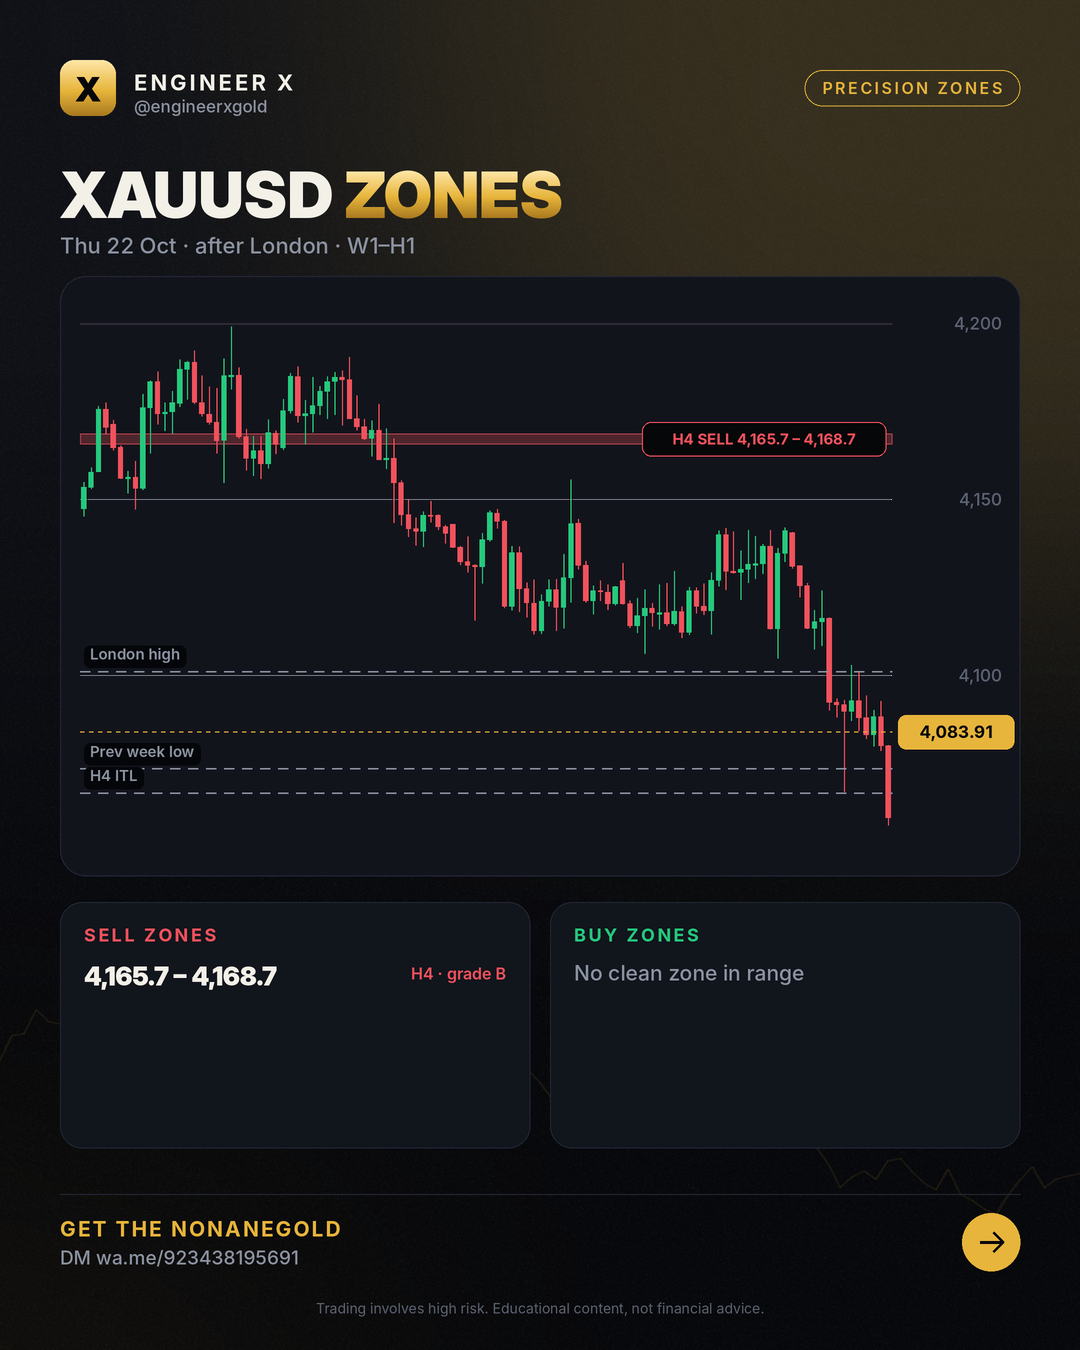
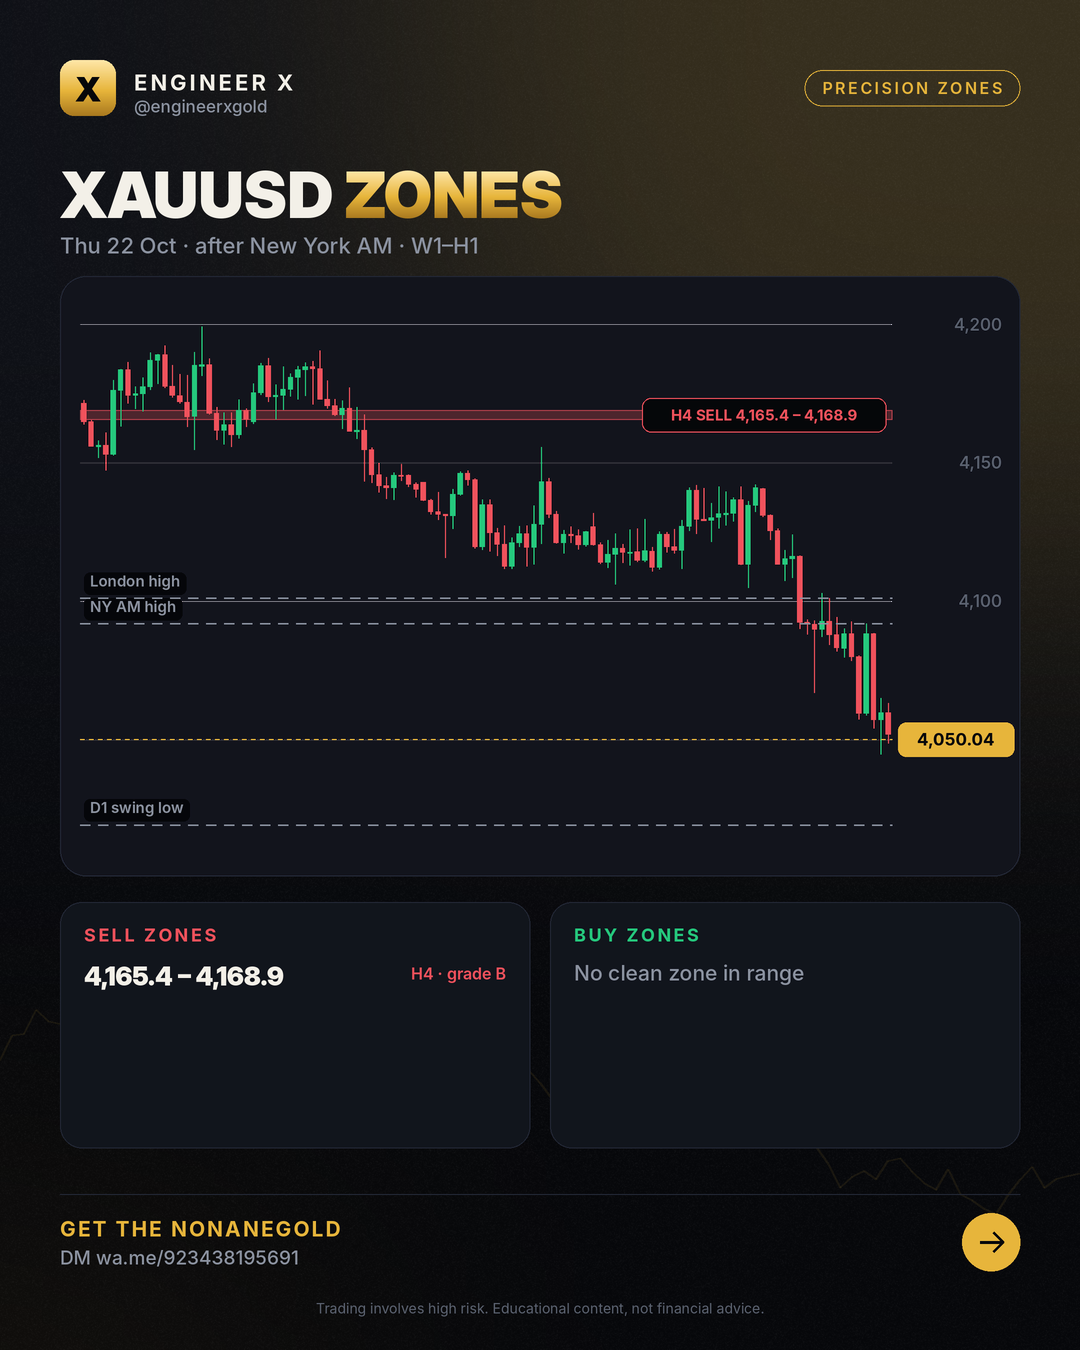
zones 2026-10-22 Thu 22 Oct · after New York AM · W1–H1

diff --git a/zones/2026-10-22/index.html b/zones/2026-10-22/index.html
@@ -4,7 +4,7 @@
 <meta charset="utf-8">
 <meta name="viewport" content="width=device-width,initial-scale=1">
 <title>Xauusd Analysis – 22 Oct 2026 (W1–H1)</title>
-<meta name="description" content="XAUUSD buy and sell zones for 2026-10-22: tested W1, D1, H4 and H1 zones with invalidation levels, updated after the Asian, London and New York sessions. Price 4,083.91.">
+<meta name="description" content="XAUUSD buy and sell zones for 2026-10-22: tested W1, D1, H4 and H1 zones with invalidation levels, updated after the Asian, London and New York sessions. Price 4,050.04.">
 <meta name="robots" content="index,follow,max-image-preview:large,max-snippet:-1,max-video-preview:-1">
 <meta name="author" content="Engr. M Ahmad Mehmood">
 <link rel="canonical" href="https://engineerxgold.github.io/zones/2026-10-22/">
@@ -12,7 +12,7 @@
 <link rel="apple-touch-icon" href="../../img/logo.png">
 <meta property="og:site_name" content="Engineer X">
 <meta property="og:title" content="Xauusd Analysis – 22 Oct 2026 (W1–H1)">
-<meta property="og:description" content="XAUUSD buy and sell zones for 2026-10-22: tested W1, D1, H4 and H1 zones with invalidation levels, updated after the Asian, London and New York sessions. Price 4,083.91.">
+<meta property="og:description" content="XAUUSD buy and sell zones for 2026-10-22: tested W1, D1, H4 and H1 zones with invalidation levels, updated after the Asian, London and New York sessions. Price 4,050.04.">
 <meta property="og:type" content="article">
 <meta property="og:url" content="https://engineerxgold.github.io/zones/2026-10-22/">
 <meta property="og:image" content="https://engineerxgold.github.io/zones/img/2026-10-22.png">
@@ -22,7 +22,7 @@
 <meta property="og:locale" content="en_US">
 <meta name="twitter:card" content="summary_large_image">
 <meta name="twitter:title" content="Xauusd Analysis – 22 Oct 2026 (W1–H1)">
-<meta name="twitter:description" content="XAUUSD buy and sell zones for 2026-10-22: tested W1, D1, H4 and H1 zones with invalidation levels, updated after the Asian, London and New York sessions. Price 4,083.91.">
+<meta name="twitter:description" content="XAUUSD buy and sell zones for 2026-10-22: tested W1, D1, H4 and H1 zones with invalidation levels, updated after the Asian, London and New York sessions. Price 4,050.04.">
 <meta name="twitter:image" content="https://engineerxgold.github.io/zones/img/2026-10-22.png">
 <meta name="twitter:image:alt" content="Xauusd Analysis – 22 Oct 2026 (W1–H1)">
 
@@ -32,7 +32,7 @@
 <link rel="preconnect" href="https://fonts.googleapis.com">
 <link rel="preconnect" href="https://fonts.gstatic.com" crossorigin>
 <link href="https://fonts.googleapis.com/css2?family=Inter:wght@400;500;600;800;900&display=swap" rel="stylesheet">
-<script type="application/ld+json">{"@context": "https://schema.org", "@type": "Organization", "@id": "https://engineerxgold.github.io/#organization", "name": "Engineer X", "url": "https://engineerxgold.github.io/", "logo": {"@type": "ImageObject", "url": "https://engineerxgold.github.io/img/logo.png", "width": 512, "height": 512}, "sameAs": ["https://t.me/engineerxgold"]}</script><script type="application/ld+json">{"@context": "https://schema.org", "@type": "Article", "headline": "Xauusd Analysis – 22 Oct 2026 (W1–H1)", "datePublished": "2026-10-22T08:00:00+05:00", "dateModified": "2026-10-22T17:56:43+05:00", "author": {"@type": "Person", "@id": "https://engineerxgold.github.io/about/#author", "name": "Engr. M Ahmad Mehmood", "url": "https://engineerxgold.github.io/about/", "jobTitle": "MQL5 Expert Advisor developer and gold market analyst", "worksFor": {"@id": "https://engineerxgold.github.io/#organization"}}, "publisher": {"@id": "https://engineerxgold.github.io/#organization"}, "image": "https://engineerxgold.github.io/zones/img/2026-10-22.png", "mainEntityOfPage": "https://engineerxgold.github.io/zones/2026-10-22/"}</script>
+<script type="application/ld+json">{"@context": "https://schema.org", "@type": "Organization", "@id": "https://engineerxgold.github.io/#organization", "name": "Engineer X", "url": "https://engineerxgold.github.io/", "logo": {"@type": "ImageObject", "url": "https://engineerxgold.github.io/img/logo.png", "width": 512, "height": 512}, "sameAs": ["https://t.me/engineerxgold"]}</script><script type="application/ld+json">{"@context": "https://schema.org", "@type": "Article", "headline": "Xauusd Analysis – 22 Oct 2026 (W1–H1)", "datePublished": "2026-10-22T08:00:00+05:00", "dateModified": "2026-10-22T21:03:52+05:00", "author": {"@type": "Person", "@id": "https://engineerxgold.github.io/about/#author", "name": "Engr. M Ahmad Mehmood", "url": "https://engineerxgold.github.io/about/", "jobTitle": "MQL5 Expert Advisor developer and gold market analyst", "worksFor": {"@id": "https://engineerxgold.github.io/#organization"}}, "publisher": {"@id": "https://engineerxgold.github.io/#organization"}, "image": "https://engineerxgold.github.io/zones/img/2026-10-22.png", "mainEntityOfPage": "https://engineerxgold.github.io/zones/2026-10-22/"}</script>
 
 <style>
 :root{--gold:#E7B53B;--gold-hi:#FFE7A8;--bg:#07080B;--bg2:#0E1016;--panel:#12151D;--line:#232836;--green:#25C97D;--red:#F0525C;--text:#F3F0E8;--muted:#8C93A1}
@@ -101,7 +101,7 @@ footer .fl a{color:var(--muted);margin-right:16px}
 <div class="wrap">
 <nav><a class="logo" href="../../"><b>X</b>Engineer X</a>
 <div class="links"><a href="../../zones/">Daily Zones</a><a href="../../blog/">Learn</a><a href="../../ea/">Gold EA</a><a href="../../about/">About</a><a class="cta" href="https://wa.me/923438195691">Get the EA</a></div></nav>
-<article><p class="crumbs"><a href="../../">Home</a> › <a href="../">Zones</a> › 2026-10-22</p><h1>Xauusd Analysis – 22 Oct 2026 (W1–H1)</h1><p class="byline">Thu 22 Oct · after London · W1–H1 · by Engr. M Ahmad Mehmood</p><img src="../img/2026-10-22.png" alt="XAUUSD zone map 2026-10-22" width="1080" height="1350" loading="eager"><h2>Zones</h2><div style="overflow-x:auto"><table style="width:100%;border-collapse:collapse;font-size:15px"><tr><th align=left>Zone</th><th align=left>Price band</th><th>Grade</th><th align=left>Invalid</th><th align=left>Why</th></tr><tr><td>H4 sell</td><td><b>4,165.69 – 4,168.70</b></td><td>B</td><td>above 4,182.24</td><td>OTE 0.705 of the H4 leg 4190.42 → 4111.68 (S35; 0.62–0.79 = 4160.50–4173.88)</td></tr></table></div><h2>How to read this map</h2><p>Bands are where price is expected to react; they are not entries. Trading beyond the invalidation price ends the zone; each zone counts once (first touch). Highs and lows listed as liquidity are targets: on 10 years of gold price ran through them more often than through random levels.</p><div class="ctabox"><h3>🤖 Trade the zones with the NonaneGold</h3><p>Free signals group access + setup help Message us and we will help you set it up.</p><div class="btns"><a class="btn gold" href="https://wa.me/923438195691">Get the EA on Telegram</a><a class="btn ghost" href="../../ea/">About the EA</a></div></div></article>
+<article><p class="crumbs"><a href="../../">Home</a> › <a href="../">Zones</a> › 2026-10-22</p><h1>Xauusd Analysis – 22 Oct 2026 (W1–H1)</h1><p class="byline">Thu 22 Oct · after New York AM · W1–H1 · by Engr. M Ahmad Mehmood</p><img src="../img/2026-10-22.png" alt="XAUUSD zone map 2026-10-22" width="1080" height="1350" loading="eager"><h2>Zones</h2><div style="overflow-x:auto"><table style="width:100%;border-collapse:collapse;font-size:15px"><tr><th align=left>Zone</th><th align=left>Price band</th><th>Grade</th><th align=left>Invalid</th><th align=left>Why</th></tr><tr><td>H4 sell</td><td><b>4,165.44 – 4,168.95</b></td><td>B</td><td>above 4,184.75</td><td>OTE 0.705 of the H4 leg 4190.42 → 4111.68 (S35; 0.62–0.79 = 4160.50–4173.88)</td></tr></table></div><h2>How to read this map</h2><p>Bands are where price is expected to react; they are not entries. Trading beyond the invalidation price ends the zone; each zone counts once (first touch). Highs and lows listed as liquidity are targets: on 10 years of gold price ran through them more often than through random levels.</p><div class="ctabox"><h3>🤖 Trade the zones with the NonaneGold</h3><p>Free signals group access + setup help Message us and we will help you set it up.</p><div class="btns"><a class="btn gold" href="https://wa.me/923438195691">Get the EA on Telegram</a><a class="btn ghost" href="../../ea/">About the EA</a></div></div></article>
 <footer>
 <div class="warn"><b>Risk warning:</b> Trading gold, forex and CFDs carries a high risk of losing money and is not suitable for everyone. Past results do not guarantee future results. Everything on this site is educational and not financial advice. We are an introducing partner of our broker and may earn a commission on accounts opened through our link.</div>
 <p class="fl" style="margin-top:18px"><a href="../../about/">About &amp; methodology</a><a href="../../privacy.html">Privacy</a><a href="../../terms.html">Terms &amp; risk disclosure</a><a href="../../feed.xml">RSS</a><a href="https://t.me/engineerxgold">Telegram</a></p>

diff --git a/zones/index.html b/zones/index.html
@@ -4,7 +4,7 @@
 <meta charset="utf-8">
 <meta name="viewport" content="width=device-width,initial-scale=1">
 <title>XAUUSD Zones Today – Buy &amp; Sell Zones (H4, H1) | Engineer X</title>
-<meta name="description" content="XAUUSD buy and sell zones for 2026-10-22: tested W1, D1, H4 and H1 zones with invalidation levels, updated after the Asian, London and New York sessions. Price 4,083.91.">
+<meta name="description" content="XAUUSD buy and sell zones for 2026-10-22: tested W1, D1, H4 and H1 zones with invalidation levels, updated after the Asian, London and New York sessions. Price 4,050.04.">
 <meta name="robots" content="index,follow,max-image-preview:large,max-snippet:-1,max-video-preview:-1">
 <meta name="author" content="Engr. M Ahmad Mehmood">
 <link rel="canonical" href="https://engineerxgold.github.io/zones/">
@@ -12,7 +12,7 @@
 <link rel="apple-touch-icon" href="../img/logo.png">
 <meta property="og:site_name" content="Engineer X">
 <meta property="og:title" content="XAUUSD Zones Today – Buy &amp; Sell Zones (H4, H1) | Engineer X">
-<meta property="og:description" content="XAUUSD buy and sell zones for 2026-10-22: tested W1, D1, H4 and H1 zones with invalidation levels, updated after the Asian, London and New York sessions. Price 4,083.91.">
+<meta property="og:description" content="XAUUSD buy and sell zones for 2026-10-22: tested W1, D1, H4 and H1 zones with invalidation levels, updated after the Asian, London and New York sessions. Price 4,050.04.">
 <meta property="og:type" content="website">
 <meta property="og:url" content="https://engineerxgold.github.io/zones/">
 <meta property="og:image" content="https://engineerxgold.github.io/zones/img/2026-10-22.png">
@@ -22,7 +22,7 @@
 <meta property="og:locale" content="en_US">
 <meta name="twitter:card" content="summary_large_image">
 <meta name="twitter:title" content="XAUUSD Zones Today – Buy &amp; Sell Zones (H4, H1) | Engineer X">
-<meta name="twitter:description" content="XAUUSD buy and sell zones for 2026-10-22: tested W1, D1, H4 and H1 zones with invalidation levels, updated after the Asian, London and New York sessions. Price 4,083.91.">
+<meta name="twitter:description" content="XAUUSD buy and sell zones for 2026-10-22: tested W1, D1, H4 and H1 zones with invalidation levels, updated after the Asian, London and New York sessions. Price 4,050.04.">
 <meta name="twitter:image" content="https://engineerxgold.github.io/zones/img/2026-10-22.png">
 <meta name="twitter:image:alt" content="XAUUSD Zones Today – Buy &amp; Sell Zones (H4, H1) | Engineer X">
 
@@ -101,7 +101,7 @@ footer .fl a{color:var(--muted);margin-right:16px}
 <div class="wrap">
 <nav><a class="logo" href="../"><b>X</b>Engineer X</a>
 <div class="links"><a href="../zones/">Daily Zones</a><a href="../blog/">Learn</a><a href="../ea/">Gold EA</a><a href="../about/">About</a><a class="cta" href="https://wa.me/923438195691">Get the EA</a></div></nav>
-<section class="hero"><span class="chip">Updated Thu 22 Oct · after London · W1–H1</span><h1>XAUUSD <span class="gold">precision zones</span></h1><p>XAUUSD buy and sell zones for 2026-10-22: tested W1, D1, H4 and H1 zones with invalidation levels, updated after the Asian, London and New York sessions. Price 4,083.91.</p></section><img src="img/2026-10-22.png" alt="Latest XAUUSD zone map" width="1080" height="1350"><section><h2>Current zones</h2><div style="overflow-x:auto"><table style="width:100%;border-collapse:collapse;font-size:15px"><tr><th align=left>Zone</th><th align=left>Price band</th><th>Grade</th><th align=left>Invalid</th><th align=left>Why</th></tr><tr><td>H4 sell</td><td><b>4,165.69 – 4,168.70</b></td><td>B</td><td>above 4,182.24</td><td>OTE 0.705 of the H4 leg 4190.42 → 4111.68 (S35; 0.62–0.79 = 4160.50–4173.88)</td></tr></table></div></section><section><h2>Honest scorecard</h2><div class="grid"><div class="card"><div class="n">143</div><p>zones published (30 days)</p></div><div class="card"><div class="n">76</div><p>held (moved 1 hourly ATR away)</p></div><div class="card"><div class="n">6</div><p>broke (traded beyond the invalidation)</p></div><div class="card"><div class="n">93%</div><p>hold rate of decided zones</p></div></div></section><div class="ctabox"><h3>🤖 Trade the zones with the NonaneGold</h3><p>Free signals group access + setup help Message us and we will help you set it up.</p><div class="btns"><a class="btn gold" href="https://wa.me/923438195691">Get the EA on Telegram</a><a class="btn ghost" href="../ea/">About the EA</a></div></div><section><h2>Archive</h2><div class="grid posts"><a class="card" href="2026-10-22/"><span class="date">2026-10-22</span><h3>XAUUSD zones 2026-10-22</h3></a><a class="card" href="2026-10-21/"><span class="date">2026-10-21</span><h3>XAUUSD zones 2026-10-21</h3></a><a class="card" href="2026-10-20/"><span class="date">2026-10-20</span><h3>XAUUSD zones 2026-10-20</h3></a><a class="card" href="2026-10-19/"><span class="date">2026-10-19</span><h3>XAUUSD zones 2026-10-19</h3></a><a class="card" href="2026-10-16/"><span class="date">2026-10-16</span><h3>XAUUSD zones 2026-10-16</h3></a><a class="card" href="2026-10-15/"><span class="date">2026-10-15</span><h3>XAUUSD zones 2026-10-15</h3></a><a class="card" href="2026-10-14/"><span class="date">2026-10-14</span><h3>XAUUSD zones 2026-10-14</h3></a><a class="card" href="2026-10-13/"><span class="date">2026-10-13</span><h3>XAUUSD zones 2026-10-13</h3></a></div></section>
+<section class="hero"><span class="chip">Updated Thu 22 Oct · after New York AM · W1–H1</span><h1>XAUUSD <span class="gold">precision zones</span></h1><p>XAUUSD buy and sell zones for 2026-10-22: tested W1, D1, H4 and H1 zones with invalidation levels, updated after the Asian, London and New York sessions. Price 4,050.04.</p></section><img src="img/2026-10-22.png" alt="Latest XAUUSD zone map" width="1080" height="1350"><section><h2>Current zones</h2><div style="overflow-x:auto"><table style="width:100%;border-collapse:collapse;font-size:15px"><tr><th align=left>Zone</th><th align=left>Price band</th><th>Grade</th><th align=left>Invalid</th><th align=left>Why</th></tr><tr><td>H4 sell</td><td><b>4,165.44 – 4,168.95</b></td><td>B</td><td>above 4,184.75</td><td>OTE 0.705 of the H4 leg 4190.42 → 4111.68 (S35; 0.62–0.79 = 4160.50–4173.88)</td></tr></table></div></section><section><h2>Honest scorecard</h2><div class="grid"><div class="card"><div class="n">143</div><p>zones published (30 days)</p></div><div class="card"><div class="n">83</div><p>held (moved 1 hourly ATR away)</p></div><div class="card"><div class="n">6</div><p>broke (traded beyond the invalidation)</p></div><div class="card"><div class="n">93%</div><p>hold rate of decided zones</p></div></div></section><div class="ctabox"><h3>🤖 Trade the zones with the NonaneGold</h3><p>Free signals group access + setup help Message us and we will help you set it up.</p><div class="btns"><a class="btn gold" href="https://wa.me/923438195691">Get the EA on Telegram</a><a class="btn ghost" href="../ea/">About the EA</a></div></div><section><h2>Archive</h2><div class="grid posts"><a class="card" href="2026-10-22/"><span class="date">2026-10-22</span><h3>XAUUSD zones 2026-10-22</h3></a><a class="card" href="2026-10-21/"><span class="date">2026-10-21</span><h3>XAUUSD zones 2026-10-21</h3></a><a class="card" href="2026-10-20/"><span class="date">2026-10-20</span><h3>XAUUSD zones 2026-10-20</h3></a><a class="card" href="2026-10-19/"><span class="date">2026-10-19</span><h3>XAUUSD zones 2026-10-19</h3></a><a class="card" href="2026-10-16/"><span class="date">2026-10-16</span><h3>XAUUSD zones 2026-10-16</h3></a><a class="card" href="2026-10-15/"><span class="date">2026-10-15</span><h3>XAUUSD zones 2026-10-15</h3></a><a class="card" href="2026-10-14/"><span class="date">2026-10-14</span><h3>XAUUSD zones 2026-10-14</h3></a><a class="card" href="2026-10-13/"><span class="date">2026-10-13</span><h3>XAUUSD zones 2026-10-13</h3></a></div></section>
 <footer>
 <div class="warn"><b>Risk warning:</b> Trading gold, forex and CFDs carries a high risk of losing money and is not suitable for everyone. Past results do not guarantee future results. Everything on this site is educational and not financial advice. We are an introducing partner of our broker and may earn a commission on accounts opened through our link.</div>
 <p class="fl" style="margin-top:18px"><a href="../about/">About &amp; methodology</a><a href="../privacy.html">Privacy</a><a href="../terms.html">Terms &amp; risk disclosure</a><a href="../feed.xml">RSS</a><a href="https://t.me/engineerxgold">Telegram</a></p>

diff --git a/index.html b/index.html
@@ -101,7 +101,7 @@ footer .fl a{color:var(--muted);margin-right:16px}
 <div class="wrap">
 <nav><a class="logo" href="./"><b>X</b>Engineer X</a>
 <div class="links"><a href="./zones/">Daily Zones</a><a href="./blog/">Learn</a><a href="./ea/">Gold EA</a><a href="./about/">About</a><a class="cta" href="https://wa.me/923438195691">Get the EA</a></div></nav>
-<section class="hero"><span class="chip">XAUUSD · W1–H1 · every session</span><h1>Gold <span class="gold">precision zones</span>, updated after every session</h1><p>Tested buy and sell zones with clear invalidation, a scorecard of every result, and the NonaneGold for traders who want it automated.</p><div class="btns"><a class="btn gold" href="zones/">See today's zones</a><a class="btn ghost" href="https://wa.me/923438195691">Get the EA</a></div></section><section><h2>Latest map Thu 22 Oct · after London · W1–H1</h2><img src="zones/img/2026-10-22.png" alt="Latest XAUUSD zones" width="1080" height="1350"></section><div class="ctabox"><h3>🤖 Trade the zones with the NonaneGold</h3><p>Free signals group access + setup help Message us and we will help you set it up.</p><div class="btns"><a class="btn gold" href="https://wa.me/923438195691">Get the EA on Telegram</a><a class="btn ghost" href="ea/">About the EA</a></div></div><section><h2>Learn</h2><div class="grid posts"><a class="card" href="blog/gold-forecast-critical-h4-bearish-zones-liquidity/"><span class="date">2026-10-21</span><h3>Gold Forecast: Critical H4 Bearish Zones &amp; Liquidity</h3></a><a class="card" href="blog/gold-supply-and-demand-zones-h4-w1-map-analysis/"><span class="date">2026-10-20</span><h3>Gold Supply and Demand Zones: H4 &amp; W1 Map Analysis</h3></a><a class="card" href="blog/gold-trading-reading-h4-trend-liquidity-zones/"><span class="date">2026-10-19</span><h3>Gold Trading: Reading H4 Trend &amp; Liquidity Zones</h3></a><a class="card" href="blog/gold-support-resistance-live-technical-map-zones/"><span class="date">2026-10-18</span><h3>Gold Support Resistance: Live Technical Map &amp; Zones</h3></a><a class="card" href="blog/gold-supply-and-demand-zones-live-trading-map-guide/"><span class="date">2026-10-17</span><h3>Gold Supply and Demand Zones: Live Trading Map &amp; Guide</h3></a><a class="card" href="blog/gold-trading-h4-trend-and-live-market-zones-map/"><span class="date">2026-10-16</span><h3>Gold Trading: H4 Trend and Live Market Zones Map</h3></a></div></section><section><h2>FAQ</h2><details><summary>What is a precision zone?</summary><p>A point of interest from a trading book (OTE 0.705, balanced price range, weekly close level, daily order block) that held better than random levels on 10 years of gold. Each zone has an invalidation price.</p></details><details><summary>How often are the zones updated?</summary><p>A daily plan at the Asian open, then after the Asian, London and New York sessions.</p></details><details><summary>Are these trade signals?</summary><p>No. Zones are areas to watch. Wait for your own confirmation and manage risk.</p></details><details><summary>How do I get the Gold EA?</summary><p>Message us on Telegram or WhatsApp; we answer and help with the setup.</p></details></section>
+<section class="hero"><span class="chip">XAUUSD · W1–H1 · every session</span><h1>Gold <span class="gold">precision zones</span>, updated after every session</h1><p>Tested buy and sell zones with clear invalidation, a scorecard of every result, and the NonaneGold for traders who want it automated.</p><div class="btns"><a class="btn gold" href="zones/">See today's zones</a><a class="btn ghost" href="https://wa.me/923438195691">Get the EA</a></div></section><section><h2>Latest map Thu 22 Oct · after New York AM · W1–H1</h2><img src="zones/img/2026-10-22.png" alt="Latest XAUUSD zones" width="1080" height="1350"></section><div class="ctabox"><h3>🤖 Trade the zones with the NonaneGold</h3><p>Free signals group access + setup help Message us and we will help you set it up.</p><div class="btns"><a class="btn gold" href="https://wa.me/923438195691">Get the EA on Telegram</a><a class="btn ghost" href="ea/">About the EA</a></div></div><section><h2>Learn</h2><div class="grid posts"><a class="card" href="blog/gold-forecast-critical-h4-bearish-zones-liquidity/"><span class="date">2026-10-21</span><h3>Gold Forecast: Critical H4 Bearish Zones &amp; Liquidity</h3></a><a class="card" href="blog/gold-supply-and-demand-zones-h4-w1-map-analysis/"><span class="date">2026-10-20</span><h3>Gold Supply and Demand Zones: H4 &amp; W1 Map Analysis</h3></a><a class="card" href="blog/gold-trading-reading-h4-trend-liquidity-zones/"><span class="date">2026-10-19</span><h3>Gold Trading: Reading H4 Trend &amp; Liquidity Zones</h3></a><a class="card" href="blog/gold-support-resistance-live-technical-map-zones/"><span class="date">2026-10-18</span><h3>Gold Support Resistance: Live Technical Map &amp; Zones</h3></a><a class="card" href="blog/gold-supply-and-demand-zones-live-trading-map-guide/"><span class="date">2026-10-17</span><h3>Gold Supply and Demand Zones: Live Trading Map &amp; Guide</h3></a><a class="card" href="blog/gold-trading-h4-trend-and-live-market-zones-map/"><span class="date">2026-10-16</span><h3>Gold Trading: H4 Trend and Live Market Zones Map</h3></a></div></section><section><h2>FAQ</h2><details><summary>What is a precision zone?</summary><p>A point of interest from a trading book (OTE 0.705, balanced price range, weekly close level, daily order block) that held better than random levels on 10 years of gold. Each zone has an invalidation price.</p></details><details><summary>How often are the zones updated?</summary><p>A daily plan at the Asian open, then after the Asian, London and New York sessions.</p></details><details><summary>Are these trade signals?</summary><p>No. Zones are areas to watch. Wait for your own confirmation and manage risk.</p></details><details><summary>How do I get the Gold EA?</summary><p>Message us on Telegram or WhatsApp; we answer and help with the setup.</p></details></section>
 <footer>
 <div class="warn"><b>Risk warning:</b> Trading gold, forex and CFDs carries a high risk of losing money and is not suitable for everyone. Past results do not guarantee future results. Everything on this site is educational and not financial advice. We are an introducing partner of our broker and may earn a commission on accounts opened through our link.</div>
 <p class="fl" style="margin-top:18px"><a href="./about/">About &amp; methodology</a><a href="./privacy.html">Privacy</a><a href="./terms.html">Terms &amp; risk disclosure</a><a href="./feed.xml">RSS</a><a href="https://t.me/engineerxgold">Telegram</a></p>
